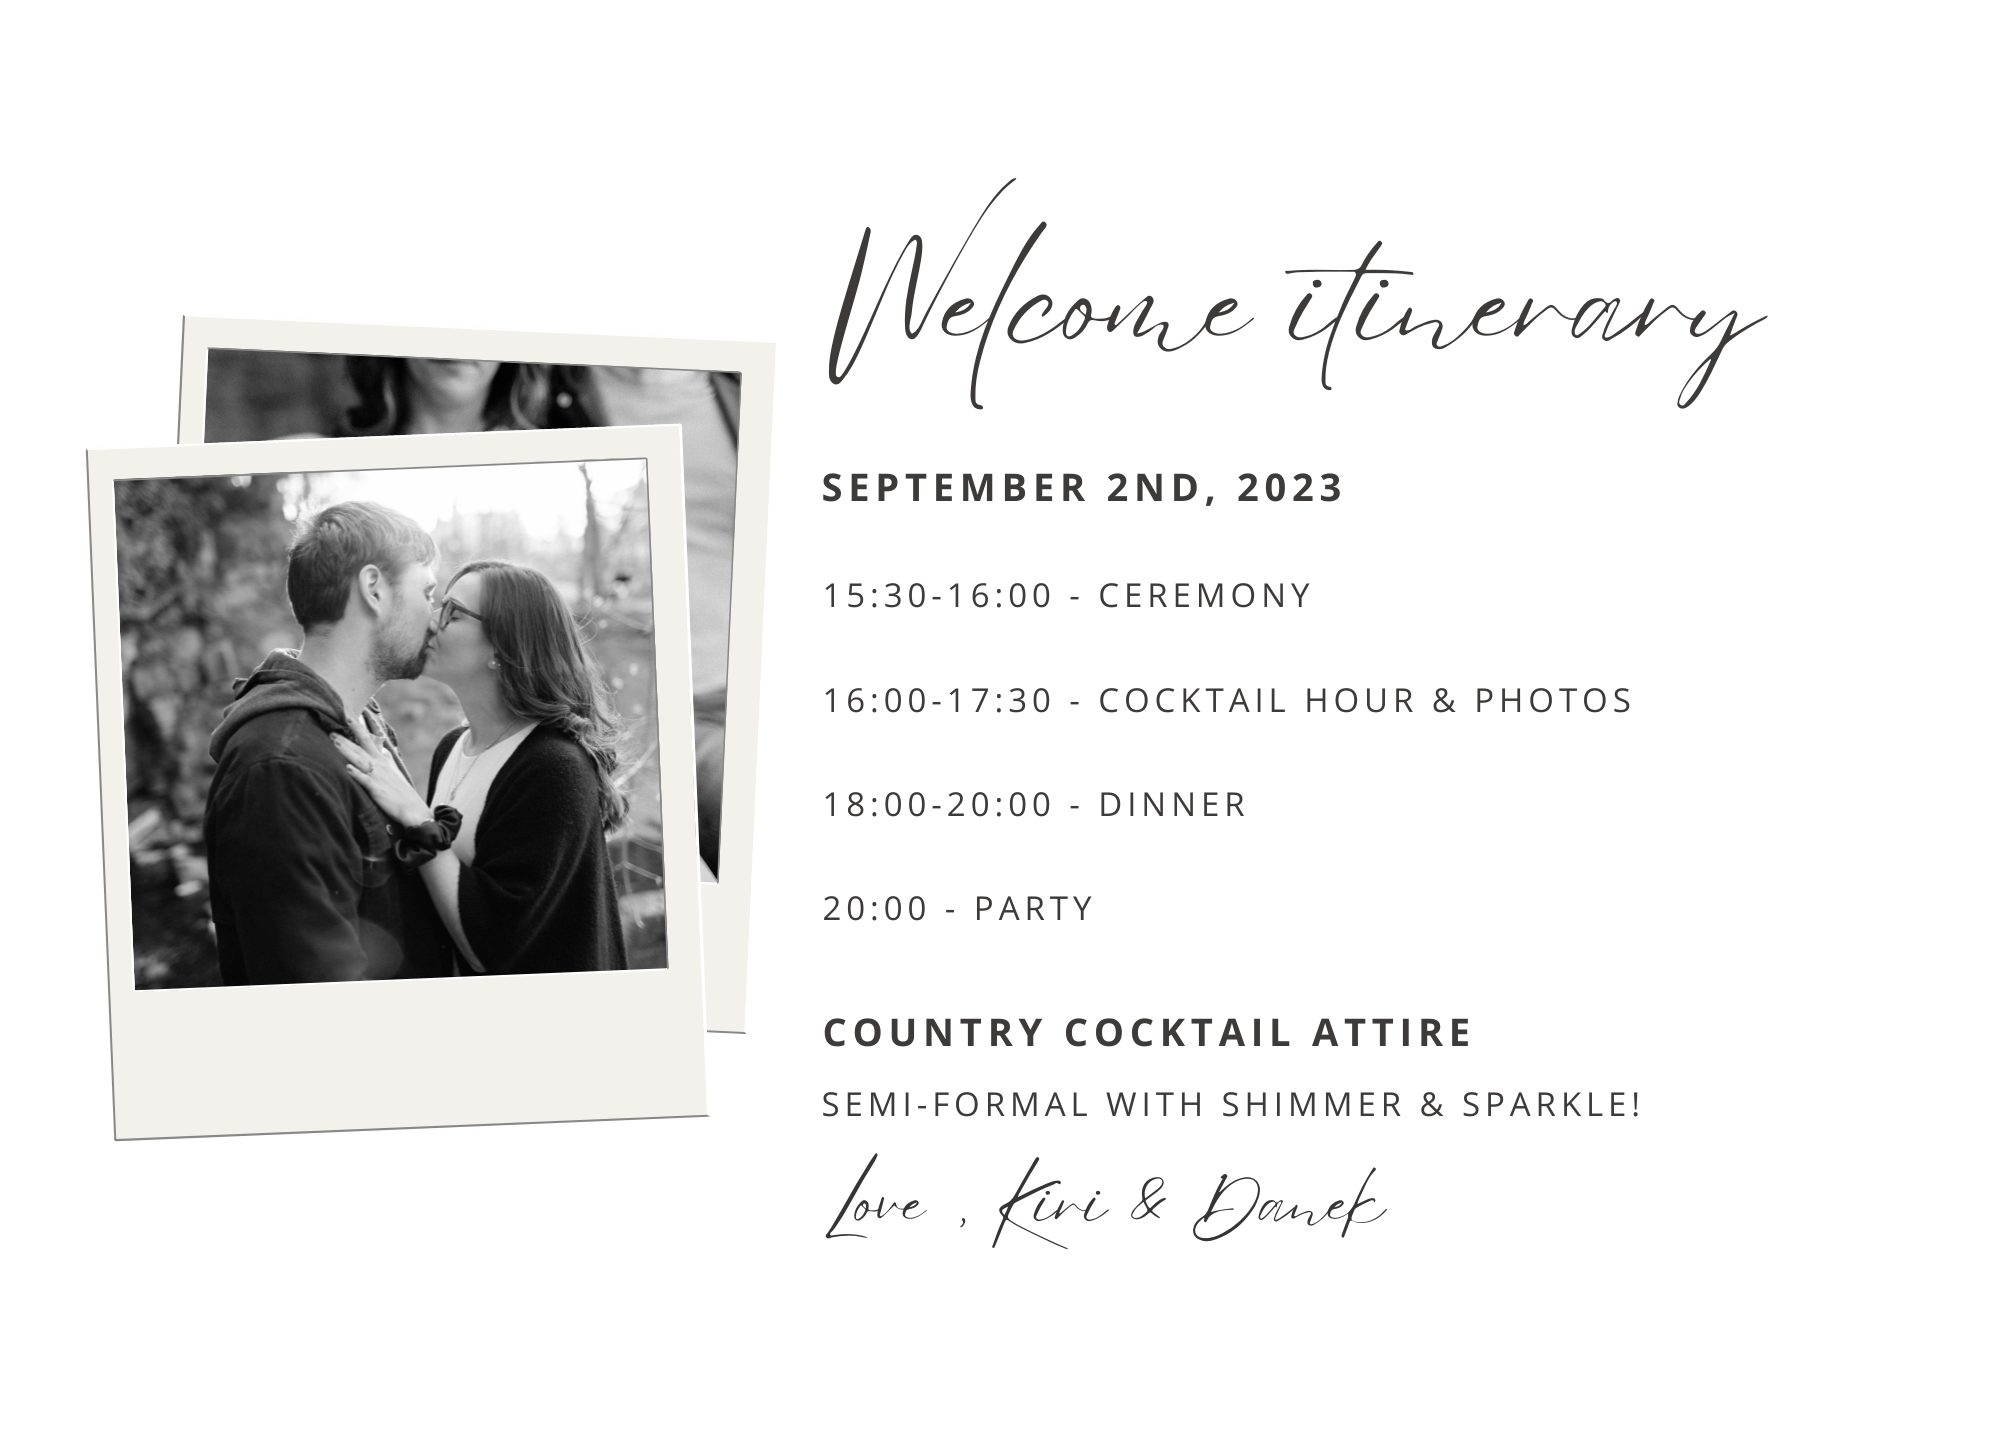
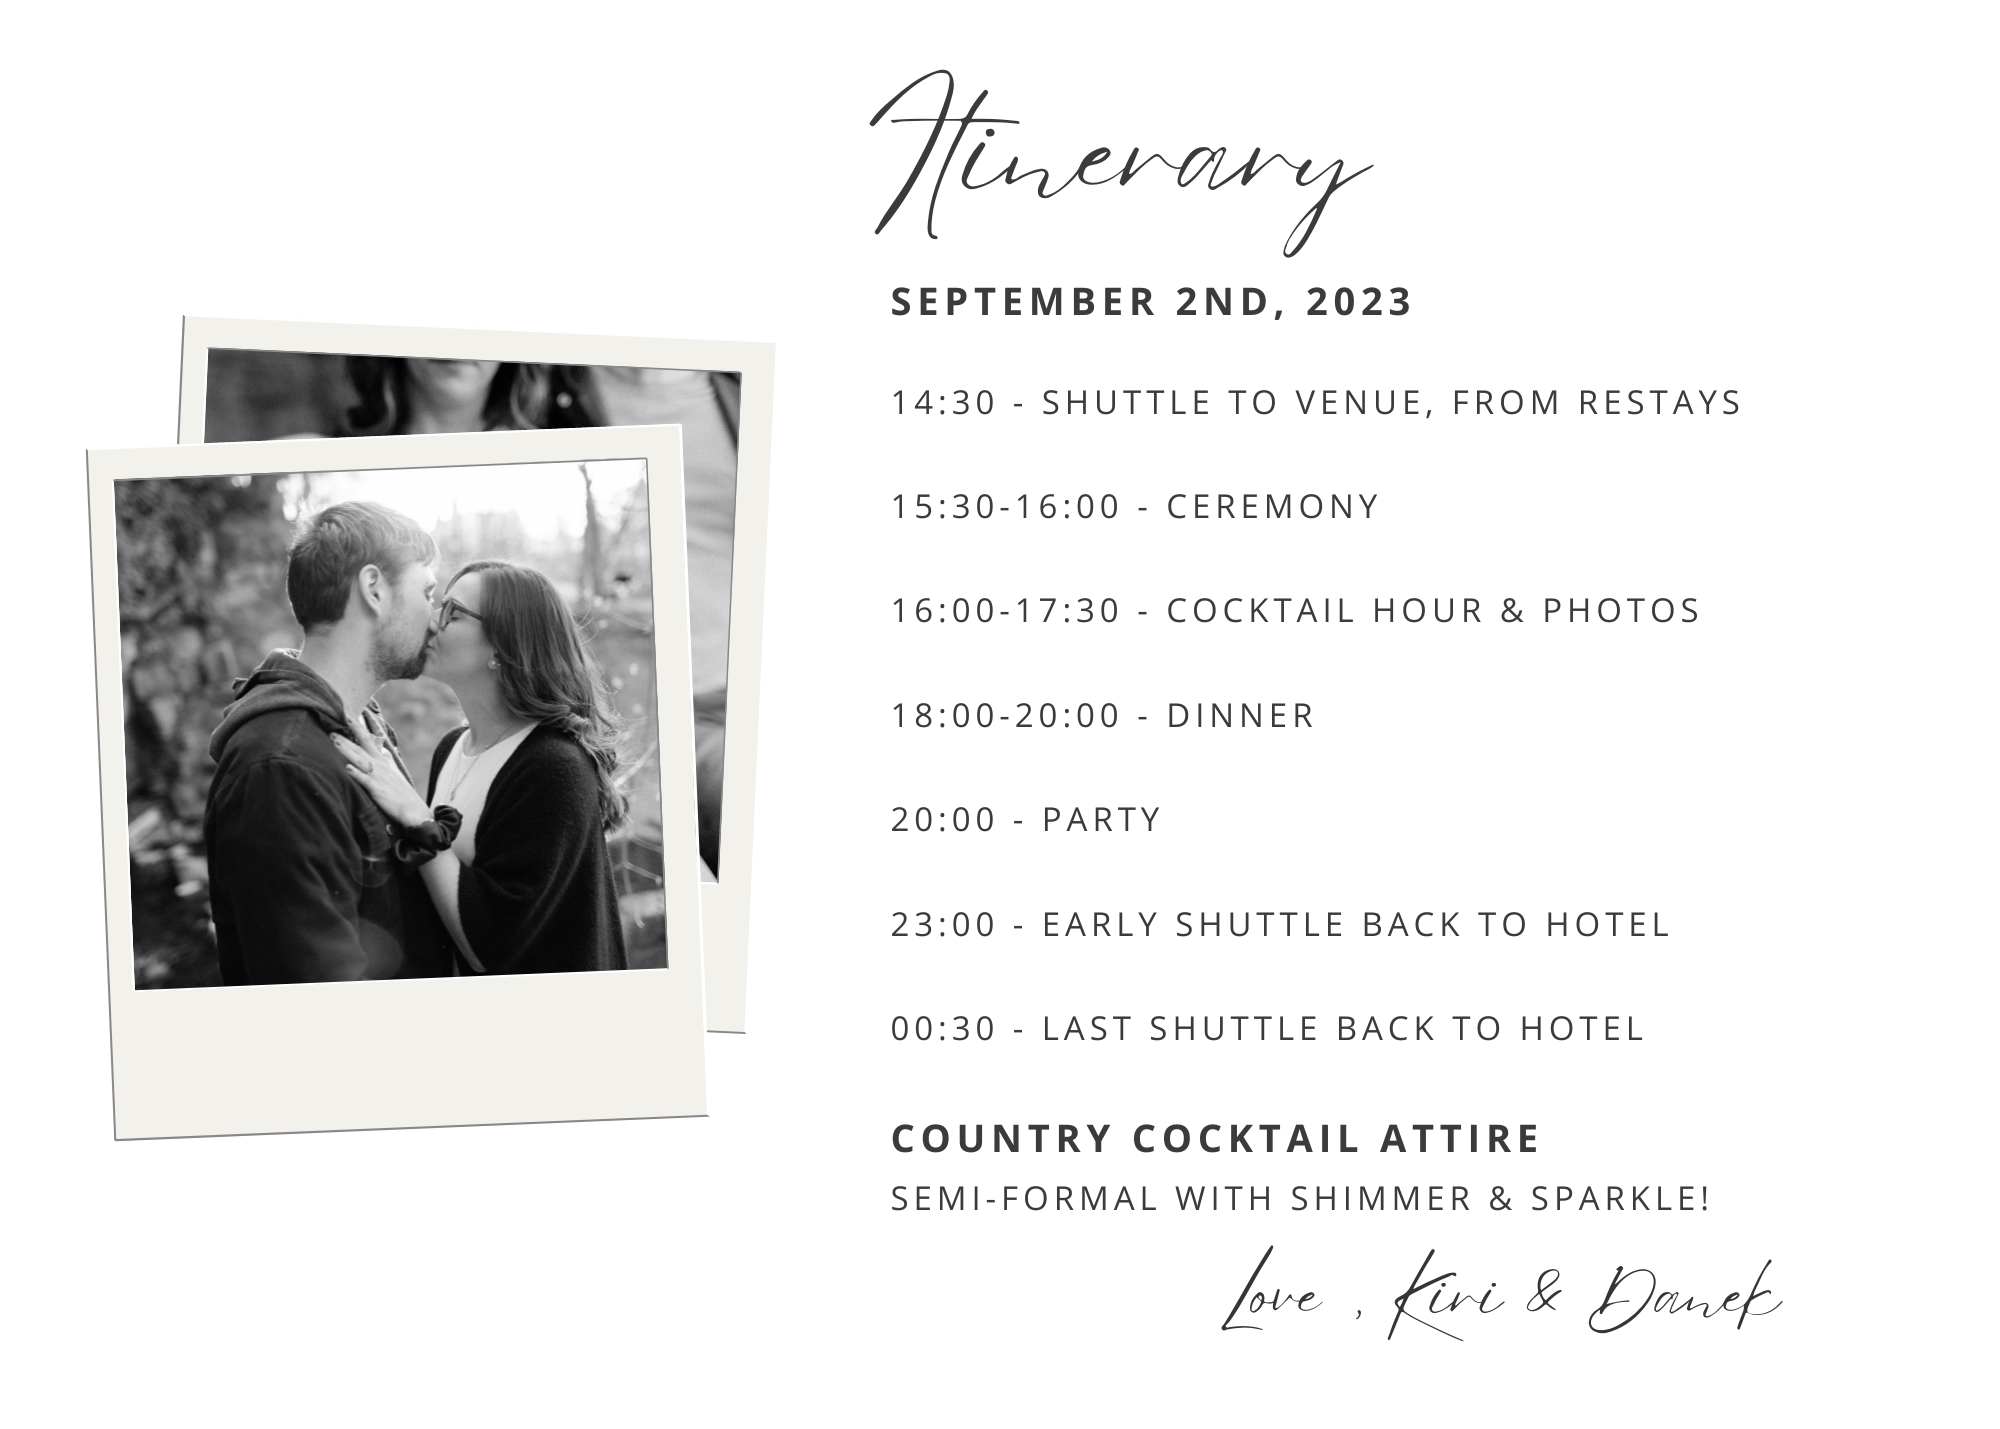
update itinerary

diff --git a/src/app/contact-us/contact-us.component.ts b/src/app/contact-us/contact-us.component.ts
@@ -15,7 +15,7 @@ export class ContactUsComponent implements OnInit {
     {question:'What is the date of the wedding?', answer:'The wedding is on September 2nd 2023 at 3:30PM. Please arrive 30 minutes before the ceremony begins.'},
     {question: 'Where is the wedding being held?', answer:"The wedding is being held at Stanley's Olde Maple Lane Farm in Edwards Ontario."},
     {question:'Are there any accomadations available?', answer:'We will unfortunately not be able to book rooms in hotels for guests. However we have a discount code for the reStays hotel in ottawa, where we will be staying. Use code Fillw. Book online or call 1-833-996-6200.'},
-    {question:'Is parking available at the location?', answer:'Parking is available on site, though the venue does charge if the vehicle needs to be left overnight.'},
+    {question:'Is parking available at the location?', answer:'Parking is available on site at the venue. Cars left at Venue must be recovered by 10AM the following day.'},
     {question:'Will transportation be provided?', answer:'We will have bus travel to/from reStays Hotel in Ottawa (101 Queen St). The most up to date times can be found on the itinerary.'},
     {question:'', answer:''},
     {question: 'How can I contact you if I have additional questions?', answer: 'You can reach out to us via email at KD.Together@outlook.com'}

diff --git a/src/app/itinerary/itinerary.component.html b/src/app/itinerary/itinerary.component.html
@@ -1,21 +1,20 @@
 <div class = "itineraryContainer">
   <img *ngIf="!mobileView" id= "itinerary" src="../../assets/static_images/itinerary.png" alt="">
 
-  <div *ngIf="mobileView" class="mobileItinerary">
+  <div *ngIf="mobileView" >
     <h1>Welcome itinerary</h1>
     <h2>Sept 2nd, 2023</h2>
     <br/>
-    <span>00:00 - 00:00 | First bus departs Hotel area</span><br/>
-    <span>00:00 - 00:00 | Second/Final bus departs Hotel area</span><br/>
+    <span>14:30 - Shuttle to venue, from reStays Hotel.</span><br/>
     <span>15:30 - 16:00 | Ceremony</span><br/>
     <span>16:00 - 17:30 | Cocktail Hour & Photos</span><br/>
     <span>18:00 - 20:00 | Dinner</span><br/>
     <span>20:00 - End   | Party</span><br/>
-    <span>00:00 - 00:00 | First bus returns to Hotel area</span><br/>
-    <span>00:00 - 00:00 | Second/Final bus returns to Hotel area</span><br/>
+    <span>23:00 - Early shuttle back to reStays Hotel</span><br/>
+    <span>00:30 - Last shuttle back to reStays Hotel</span><br/>
     <br/>
     <h2>Country Cocktail Attire</h2>
     <h3>Semi-Formal, with Shimmer & Sparkle</h3>
-
+    <br />
   </div>
 </div>

diff --git a/src/app/itinerary/itinerary.component.scss b/src/app/itinerary/itinerary.component.scss
@@ -7,3 +7,8 @@
 #itinerary {
   height: 90vh;
 }
+
+body {
+  background-image: url('../../assets/static_images/paperBG.jpg');
+
+}
